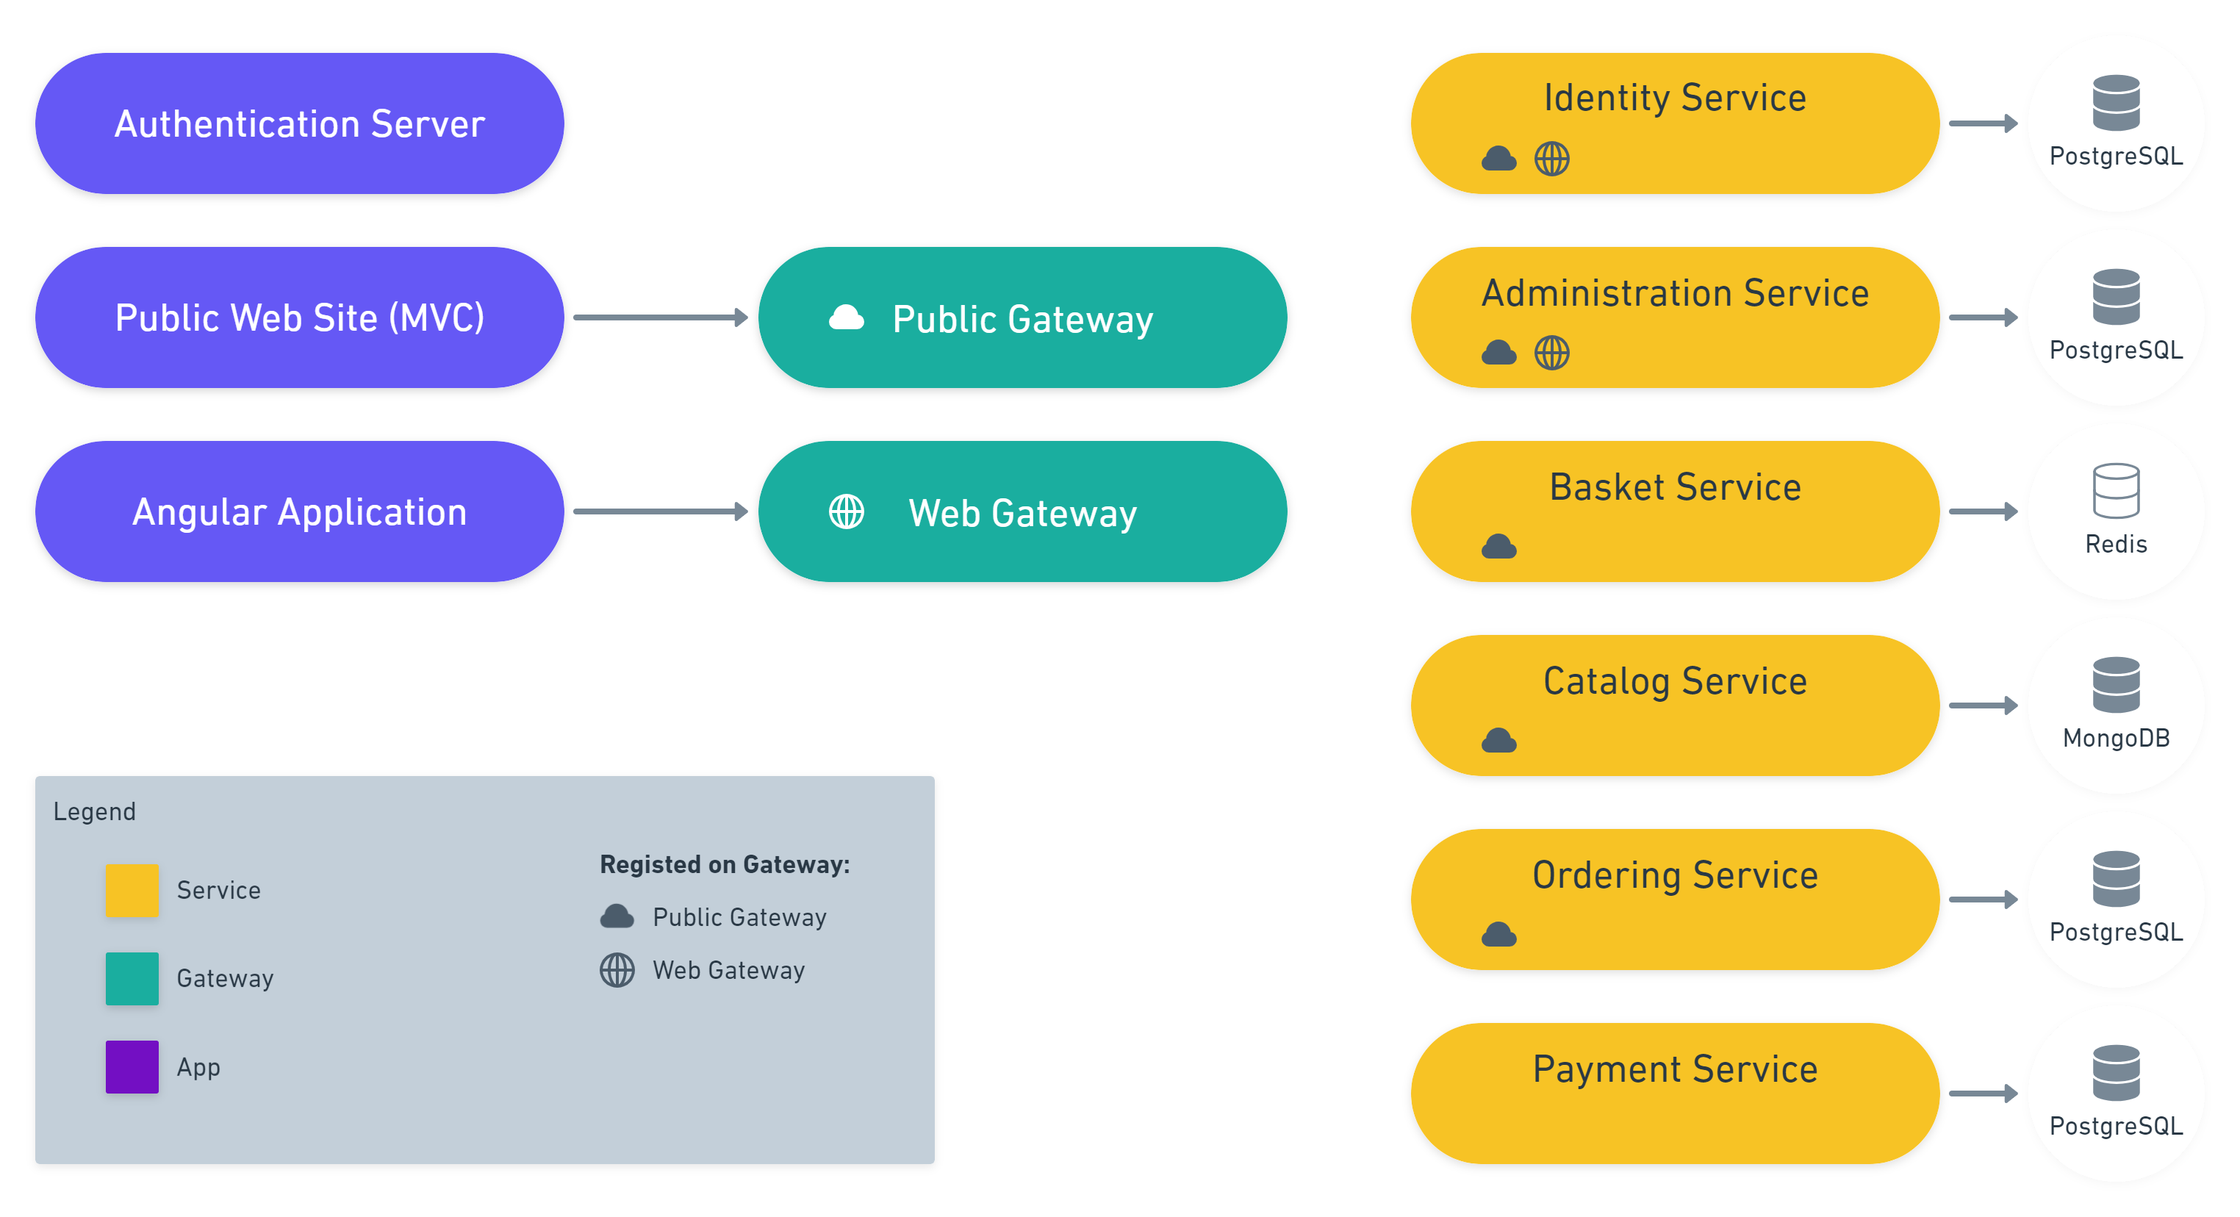
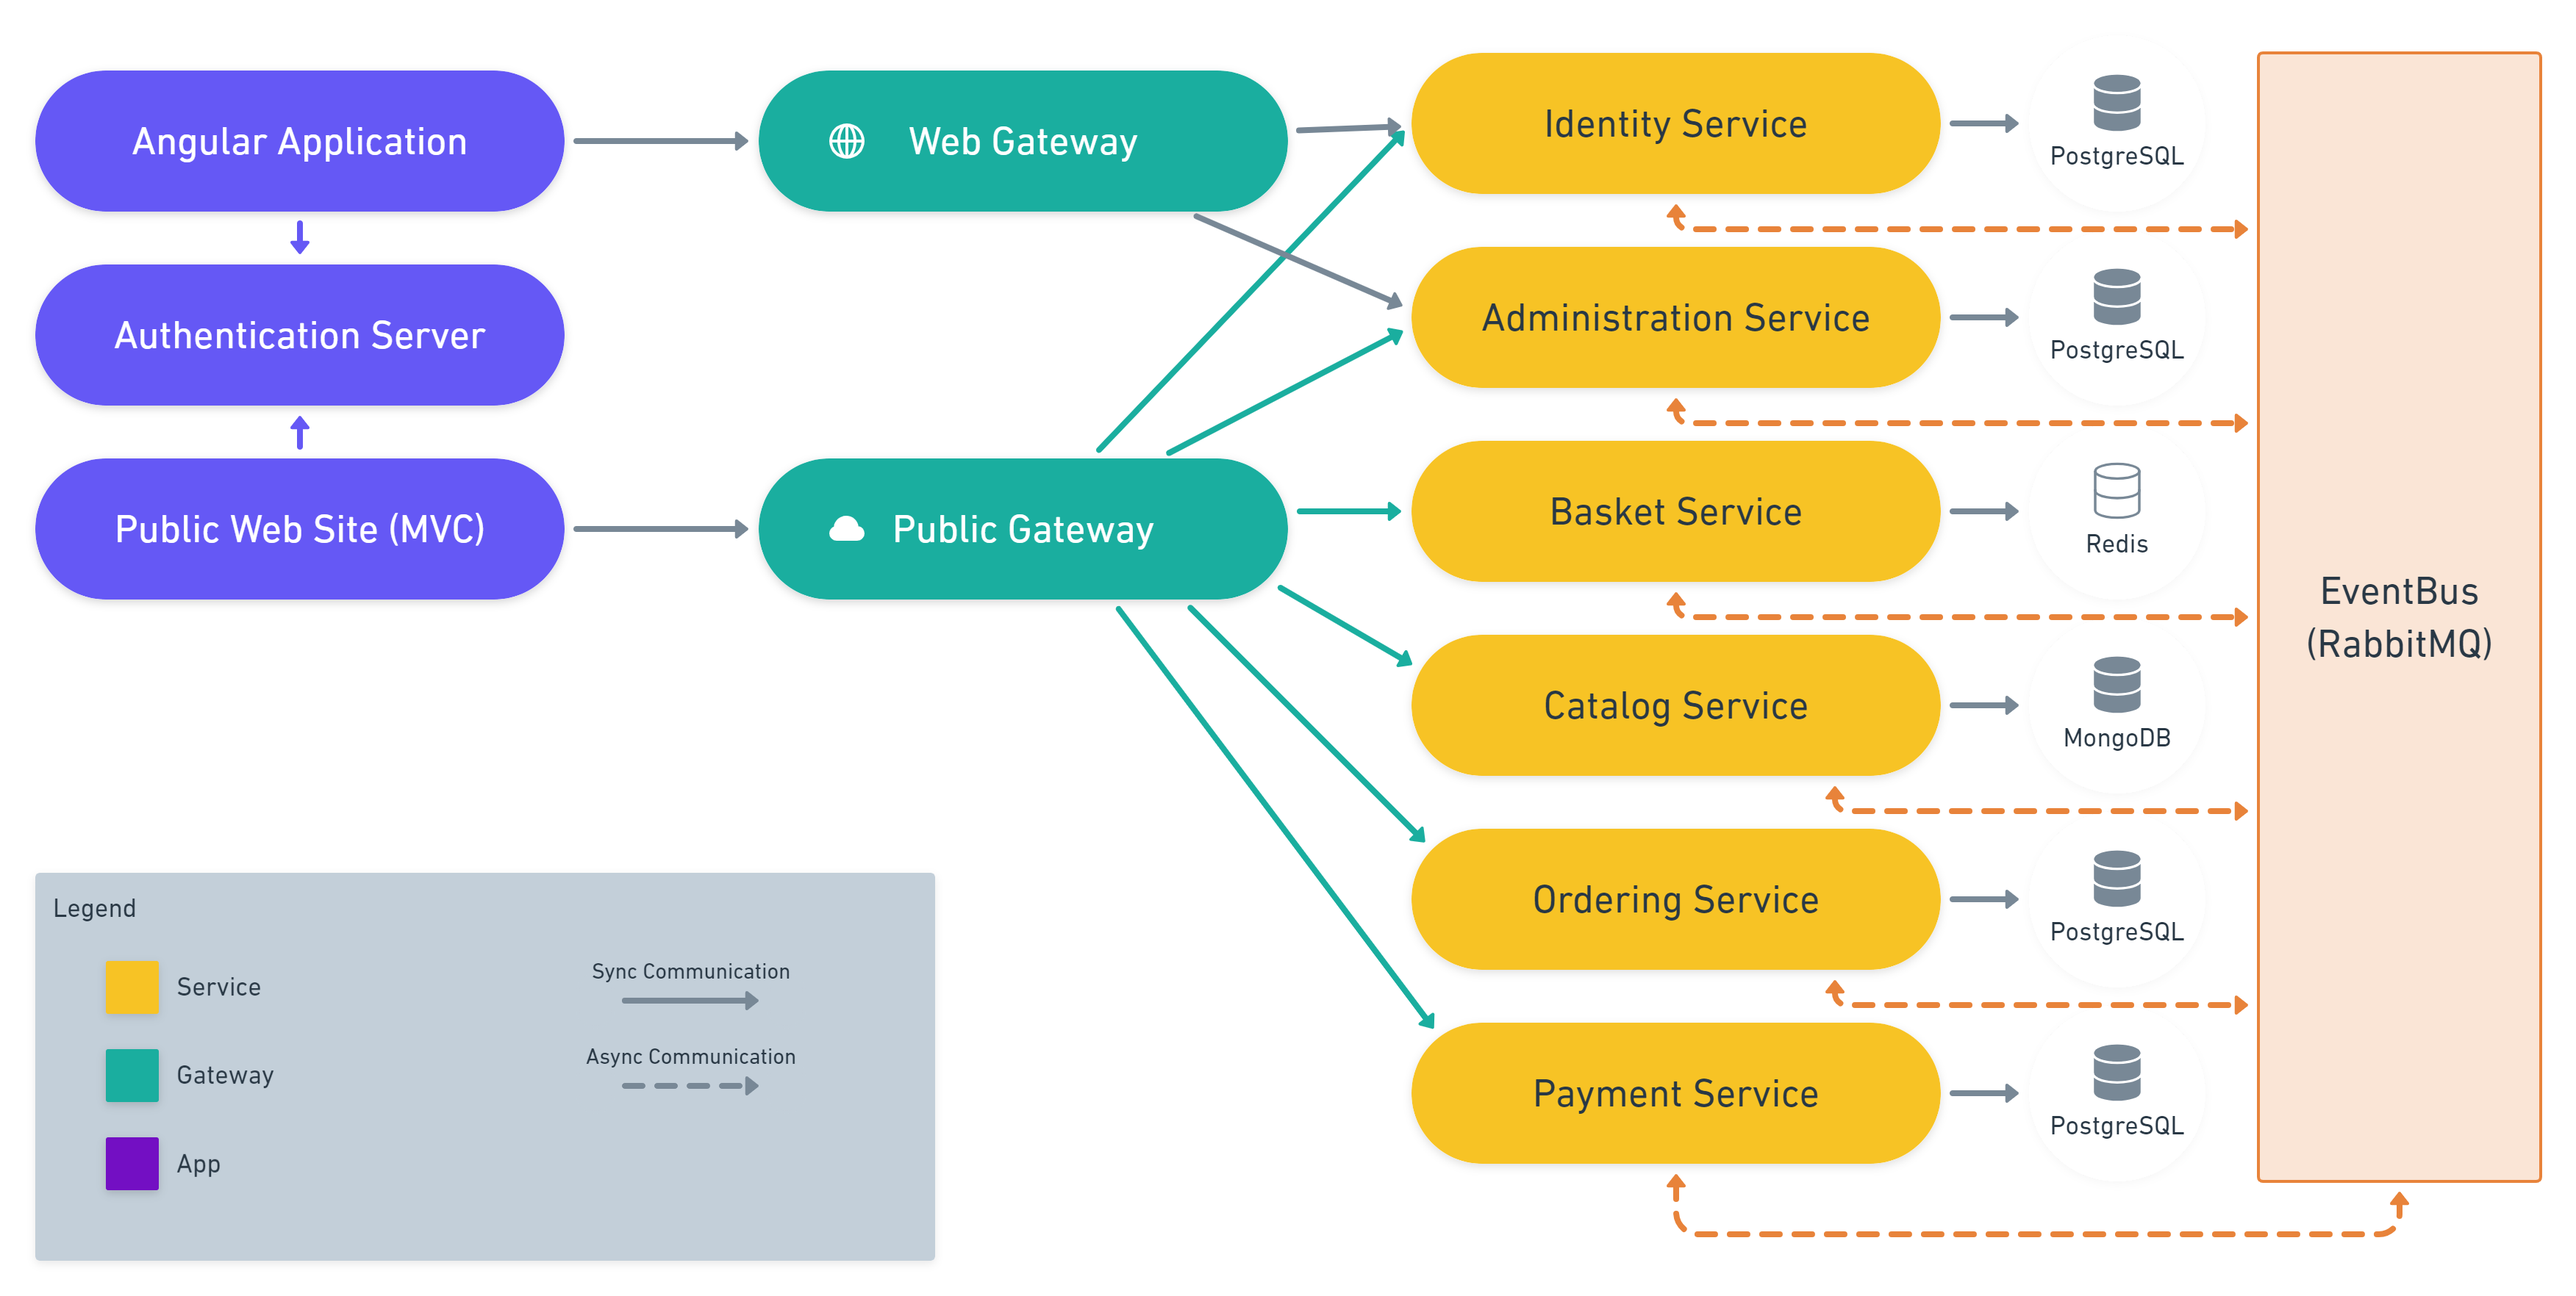
Update Architecture on README.md

diff --git a/README.md b/README.md
@@ -70,9 +70,9 @@ You can either run in Visual Studio, or using [Microsoft Tye](https://github.com
 - [ ] Deployment
 ---
 
-Current milestone is Phase 1 structure is presented below:
+
+## Current Architecture
 
 ![eSopOnAbp Phase 1](/docs/roadmap/Phase_1.png)
 
-_See Phase 2 planning from [here](docs/roadmap/Phase_2.png)_
 
